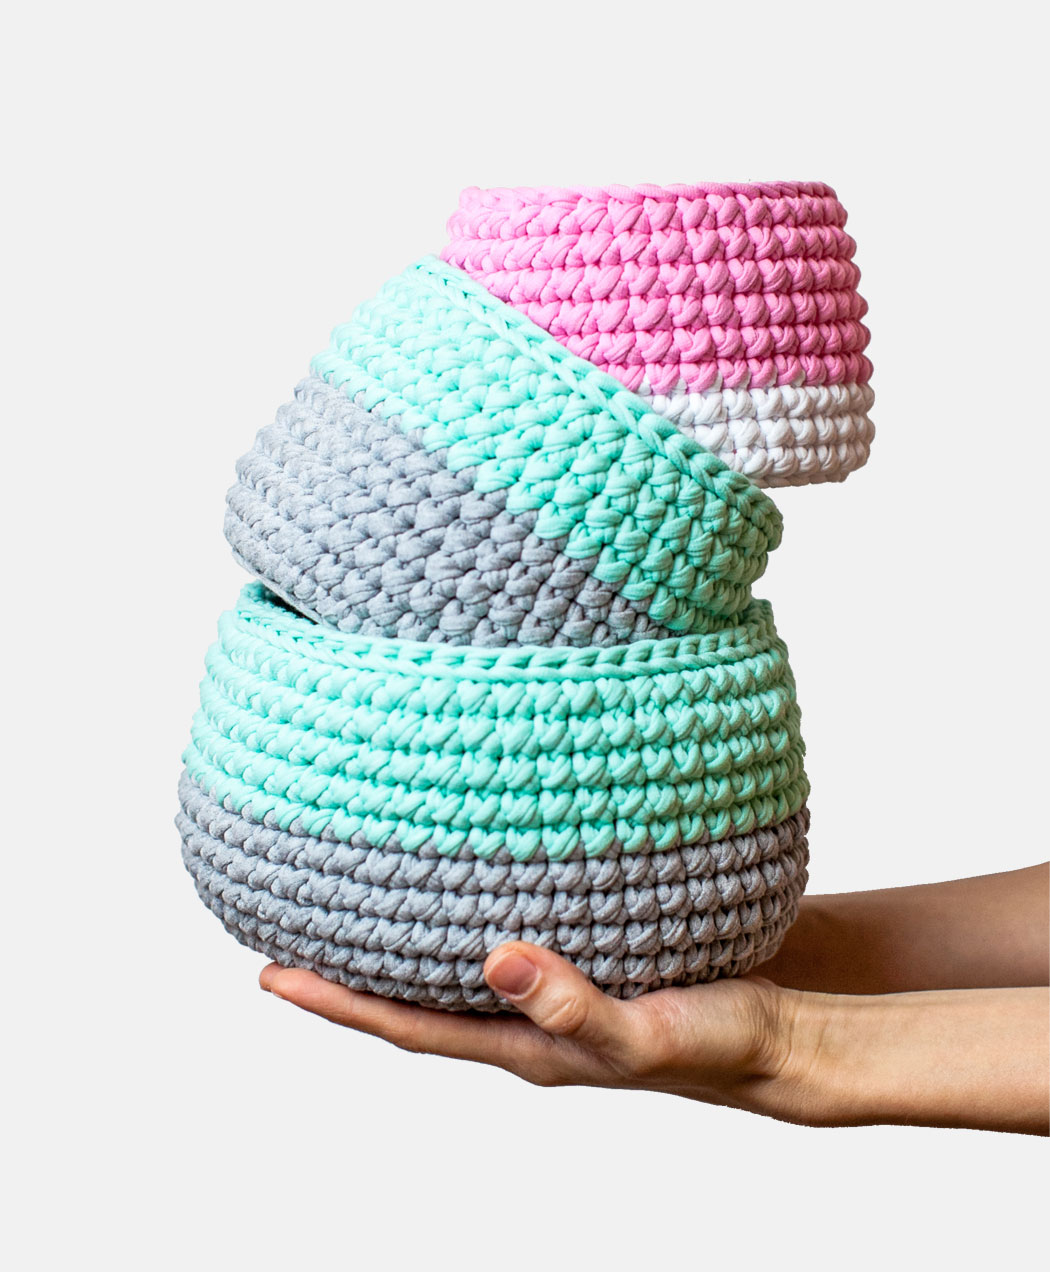
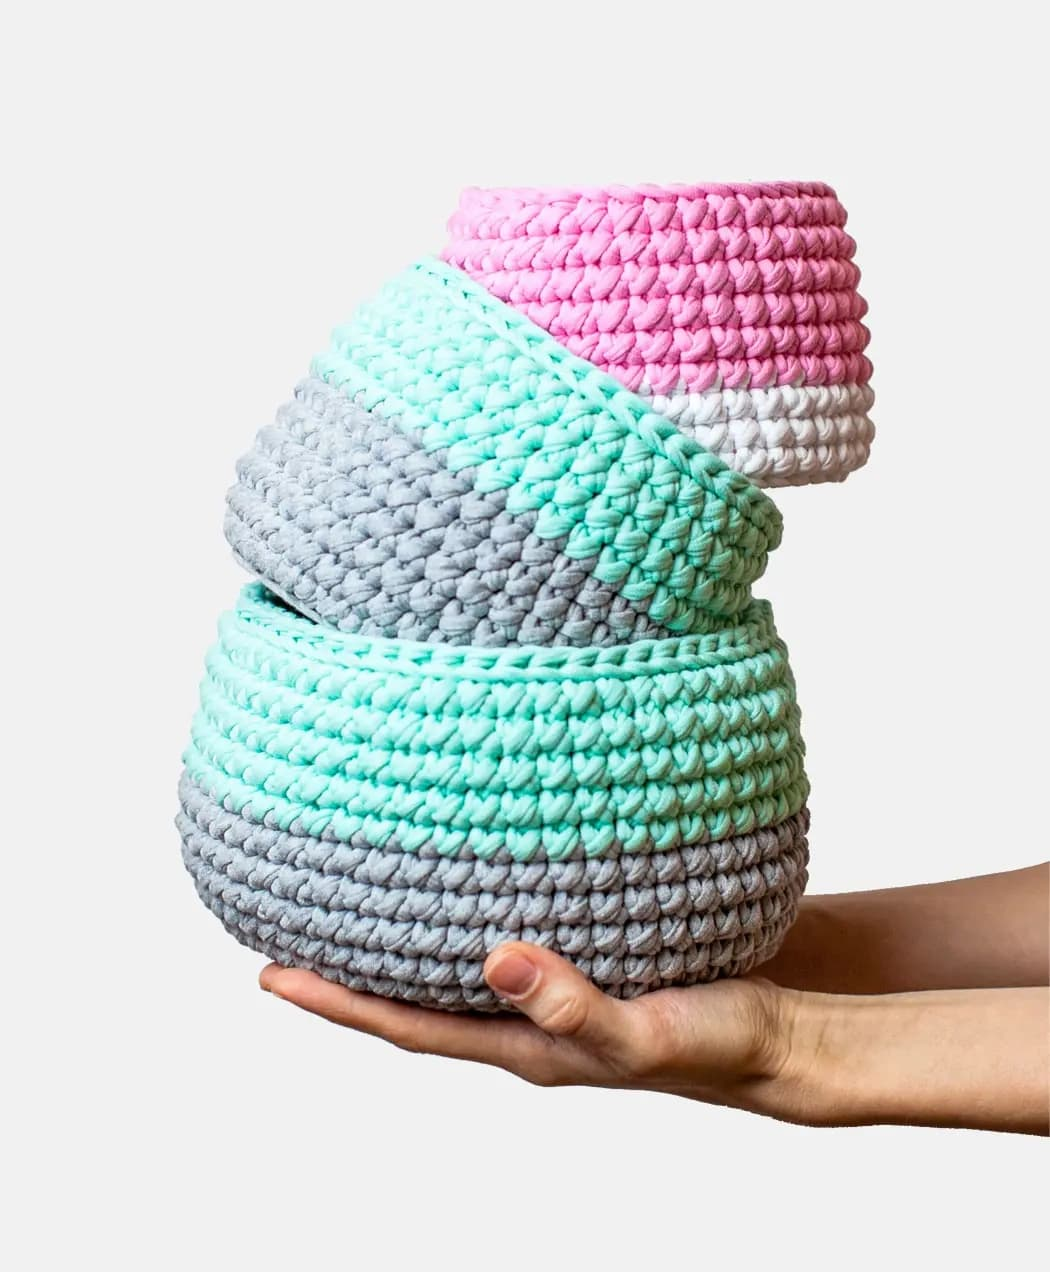
Изображения в формате webp прописаны в picture

Changed region(s): [[0.2438, 0.5825, 0.3048, 0.6439], [0.5181, 0.3066, 0.5486, 0.3373]]

diff --git a/source/catalog.html b/source/catalog.html
@@ -70,6 +70,10 @@
             <li class="catalog-list__item">
               <a class="catalog-list__link--img" href="#">
                 <picture>
+                  <source type="image/webp" media="(min-width: 1150px)" srcset="img/photo-hare-desktop@1x.webp 1x, img/photo-hare-desktop@2x.webp 2x">
+                  <source type="image/webp" media="(min-width: 768px)" srcset="img/photo-hare-tablet@1x.webp 1x, img/photo-hare-tablet@2x.webp 2x">
+                  <source type="image/webp" srcset="img/photo-hare-mobile@1x.webp 1x" srcset="img/photo-hare-mobile@2x.webp 2x">
+
                   <source media="(min-width: 1150px)" srcset="img/photo-hare-desktop@1x.jpg 1x, img/photo-hare-desktop@2x.jpg 2x">
                   <source media="(min-width: 768px)" srcset="img/photo-hare-tablet@1x.jpg 1x, img/photo-hare-tablet@2x.jpg 2x">
                   <img class="catalog-list__image" src="img/photo-hare-mobile@1x.jpg" srcset="img/photo-hare-mobile@2x.jpg 2x" width="260" height="195" alt="игрушка 'Вязаный зайчик'">
@@ -94,6 +98,10 @@
             <li class="catalog-list__item">
               <a class="catalog-list__link--img" href="#">
                 <picture>
+                  <source type="image/webp" media="(min-width: 1150px)" srcset="img/photo-bowl-desktop@1x.webp 1x, img/photo-bowl-desktop@2x.webp 2x">
+                  <source type="image/webp" media="(min-width: 768px)" srcset="img/photo-bowl-tablet@1x.webp 1x, img/photo-bowl-tablet@2x.webp 2x">
+                  <source type="image/webp" srcset="img/photo-bowl-mobile@1x.webp 1x" srcset="img/photo-bowl-mobile@2x.webp 2x">
+
                   <source media="(min-width: 1150px)" srcset="img/photo-bowl-desktop@1x.jpg 1x, img/photo-bowl-desktop@2x.jpg 2x">
                   <source media="(min-width: 768px)" srcset="img/photo-bowl-tablet@1x.jpg 1x, img/photo-bowl-tablet@2x.jpg 2x">
                   <img class="catalog-list__image" src="img/photo-bowl-mobile@1x.jpg" srcset="img/photo-bowl-mobile@2x.jpg 2x" width="260" height="195" alt="вязаная двухцветная корзинка для белья">
@@ -118,6 +126,10 @@
             <li class="catalog-list__item">
               <a class="catalog-list__link--img" href="#">
                 <picture>
+                  <source type="image/webp" media="(min-width: 1150px)" srcset="img/photo-toys-desktop@1x.webp 1x, img/photo-toys-desktop@2x.webp 2x">
+                  <source type="image/webp" media="(min-width: 768px)" srcset="img/photo-toys-tablet@1x.webp 1x, img/photo-toys-tablet@2x.webp 2x">
+                  <source type="image/webp" srcset="img/photo-toys-mobile@1x.webp 1x" srcset="img/photo-toys-mobile@2x.webp 2x">
+
                   <source media="(min-width: 1150px)" srcset="img/photo-toys-desktop@1x.jpg 1x, img/photo-toys-desktop@2x.jpg 2x">
                   <source media="(min-width: 768px)" srcset="img/photo-toys-tablet@1x.jpg 1x, img/photo-toys-tablet@2x.jpg 2x">
                   <img class="catalog-list__image" src="img/photo-toys-mobile@1x.jpg" srcset="img/photo-toys-mobile@2x.jpg 2x" width="260" height="195" alt="большая вязаная двухцветная корзинка для игрушек">
@@ -147,6 +159,10 @@
           <h3 class="process__title title-inner">Процесс производства</h3>
           <div class="process__video">
             <picture>
+              <source type="image/webp" media="(min-width: 1150px)" srcset="img/video-desktop@1x.webp 1x, img/video-desktop@2x.webp 2x">
+              <source type="image/webp" media="(min-width: 768px)" srcset="img/video-tablet@1x.webp 1x, img/video-tablet@2x.webp 2x">
+              <source type="image/webp" srcset="img/video-mobile@1x.webp 1x" srcset="img/video-mobile@2x.webp 2x">
+
               <source media="(min-width: 1150px)" srcset="img/video-desktop@1x.jpg 1x, img/video-desktop@2x.jpg 2x">
               <source media="(min-width: 768px)" srcset="img/video-tablet@1x.jpg 1x, img/video-tablet@2x.jpg 2x">
               <img class="process__image" src="img/video-mobile@1x.jpg" srcset="img/video-mobile@2x.jpg 2x" width="260" height="150" alt="постер на видеоплеер 'Процесс производства'">

diff --git a/source/index.html b/source/index.html
@@ -107,6 +107,10 @@
           </div>
 
           <picture>
+            <source type="image/webp" media="(min-width: 1150px)" srcset="img/triple-set-desktop@1x.webp 1x, img/triple-set-desktop@2x.webp 2x">
+            <source type="image/webp" media="(min-width: 768px)" srcset="img/triple-set-tablet@1x.webp 1x, img/triple-set-tablet@2x.webp 2x">
+            <source type="image/webp" srcset="img/triple-set-mobile@1x.webp 1x" srcset="img/triple-set-mobile@2x.webp 2x">
+
             <source media="(min-width: 1150px)" srcset="img/triple-set-desktop@1x.jpg 1x, img/triple-set-desktop@2x.jpg 2x">
             <source media="(min-width: 768px)" srcset="img/triple-set-tablet@1x.jpg 1x, img/triple-set-tablet@2x.jpg 2x">
             <img class="promo__image" src="img/triple-set-mobile@1x.jpg" srcset="img/triple-set-mobile@2x.jpg 2x" width="260" height="315" alt="Набор вязаных корзинок">
@@ -202,6 +206,10 @@
           <div class="contacts__map">
             <iframe class="contacts__iframe" src="https://www.google.com/maps/embed?pb=!1m18!1m12!1m3!1d1998.6036253003165!2d30.32085871617607!3d59.938719169054075!2m3!1f0!2f0!3f0!3m2!1i1024!2i768!4f13.1!3m3!1m2!1s0x4696310fca145cc1%3A0x42b32648d8238007!2sBolshaya%20Konyushennaya%20St%2C%2019%2F8%2C%20Sankt-Peterburg%2C%20Russia%2C%20191186!5e0!3m2!1sit!2sit!4v1587322655043!5m2!1sit!2sit"  height="457" style="border:0;" allowfullscreen="" aria-hidden="false" tabindex="0"></iframe>
             <picture>
+              <source type="image/webp" media="(min-width: 1150px)" srcset="img/map-desktop@1x.webp 1x, img/map-desktop@2x.webp 2x">
+              <source type="image/webp" media="(min-width: 768px)" srcset="img/map-tablet@1x.webp 1x, img/map-tablet@2x.webp 2x">
+              <source type="image/webp" srcset="img/map-mobile@1x.webp 1x" srcset="img/map-mobile@2x.webp 2x">
+
               <source media="(min-width: 1150px)" srcset="img/map-desktop@1x.jpg 1x, img/map-desktop@2x.jpg 2x">
               <source media="(min-width: 768px)" srcset="img/map-tablet@1x.jpg 1x, img/map-tablet@2x.jpg 2x">
               <img src="img/map-mobile@1x.jpg" srcset="img/map-mobile@2x.jpg 2x" alt="карта">

diff --git a/source/sass/global/global.scss b/source/sass/global/global.scss
@@ -44,7 +44,6 @@ body {
   font-size: 15px;
   font-weight: normal;
   line-height: 1.6;
-  overflow-x: hidden;
 
   color: #444444;
 }
